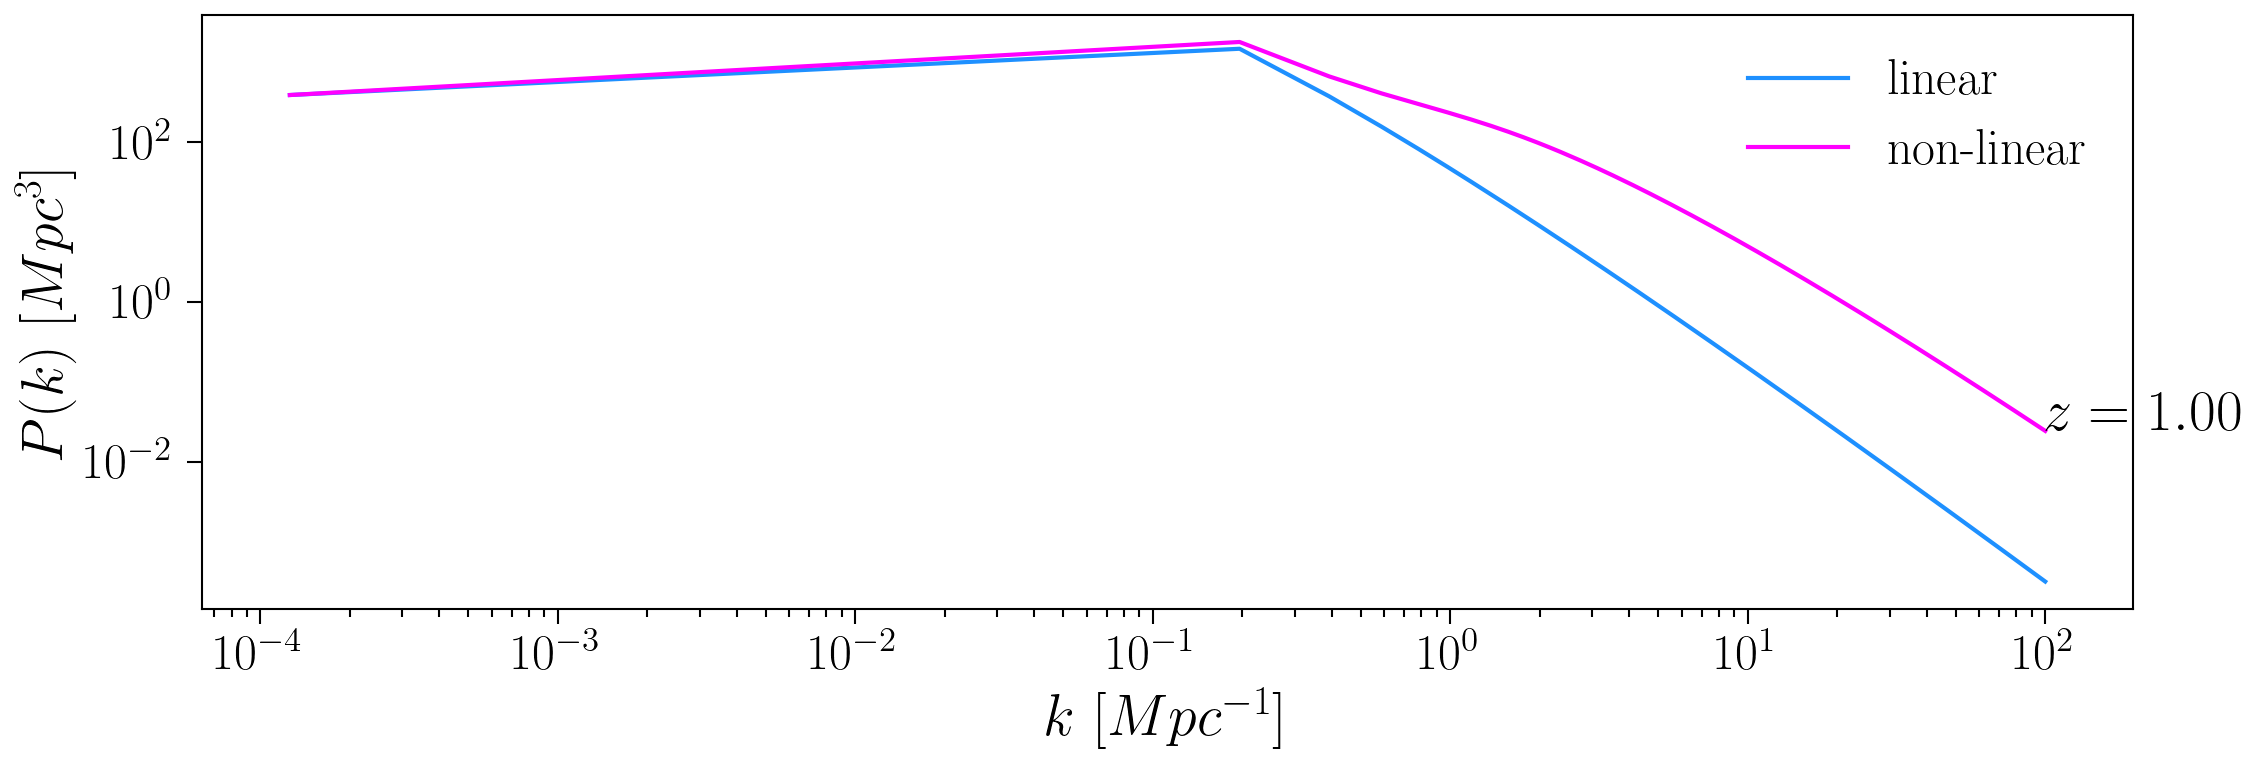
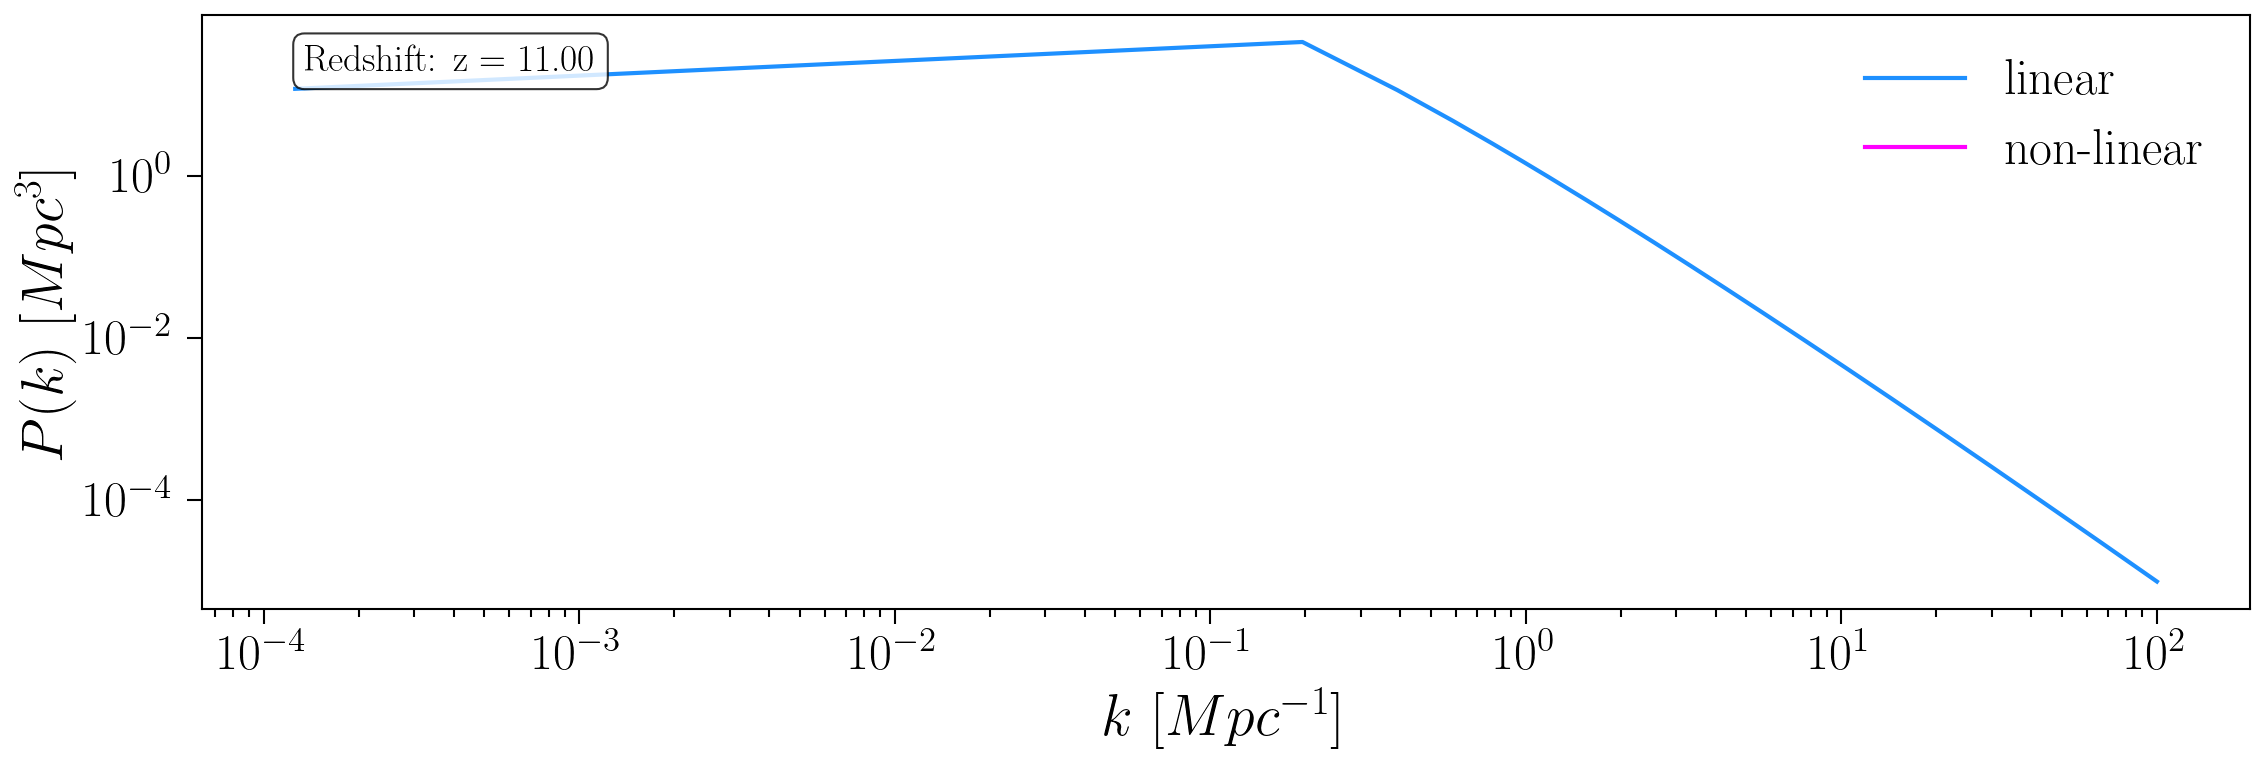
Edited plotting code, prints simulation redshift

diff --git a/PyCosmo_Power_Spectrum/power_spectrum_generation/power_spectrum_class.py b/PyCosmo_Power_Spectrum/power_spectrum_generation/power_spectrum_class.py
@@ -29,10 +29,10 @@ class PowerSpectrumClass:
         self.box_size = float(parameters["Box"])  # Get the periodic box size of the simulation
         self.Nsample = int(parameters["Nsample"]) # Get the number of samples in the simulation
 
-        self.z_start = 1 # float(parameters["Redshift"]) # Get the starting redshift
+        self.z_start = float(parameters["Redshift"]) # Get the starting redshift
 
         # Calculate and store the appropriate range of k values to use in the simulation 
-        self.nyquist = 100 # float((2 * np.pi / self.box_size) * (self.Nsample / 2)) Calculate the Nyquist frequency
+        self.nyquist = 100 # float((2 * np.pi / self.box_size) * (self.Nsample / 2)) # Calculate the Nyquist frequency
         self.kmin = float(2 * np.pi / self.box_size) # Calculate the minimum k value
         self.k_count = int(self.Nsample)
         self.k_values = np.linspace(self.kmin, self.nyquist, self.k_count)
@@ -72,7 +72,7 @@ class PowerSpectrumClass:
         # Compute the linear and non-linear power spectra 
         self.pk_nonlin = self.cosmo.nonlin_pert.powerspec_a_k(1./(1+self.z_start), self.k_values)[:,0]
         self.pk_lin = self.cosmo.lin_pert.powerspec_a_k(1./(1+self.z_start), self.k_values)[:,0]
-        print(self.pk_nonlin)
+ 
     def plot_power_spectrum(self):
         """
         Plot the power spectrum.
@@ -96,6 +96,12 @@ class PowerSpectrumClass:
 
         for tick in ax.yaxis.get_major_ticks():
             tick.label1.set_fontweight('bold')
+
+        # Add a text box to the graph displaying the redshift
+        textstr = f'Redshift: z = {self.z_start:.2f}'
+        props = dict(boxstyle='round', facecolor='white', alpha=0.8)
+        ax.text(0.05, 0.95, textstr, transform=ax.transAxes, fontsize=18,
+            verticalalignment='top', bbox=props)
 
         plt.legend(loc='best')
 
